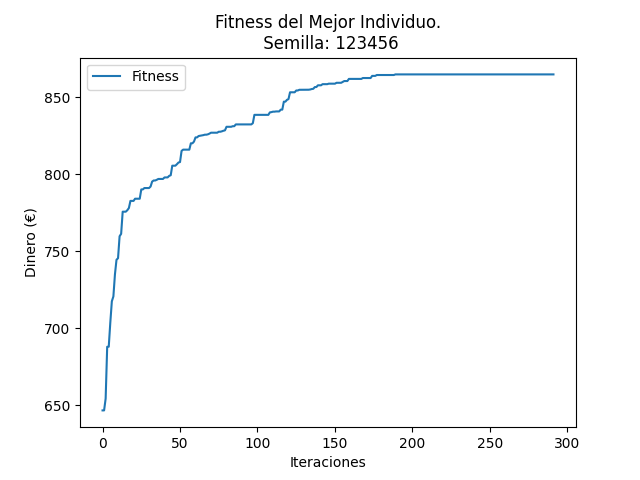
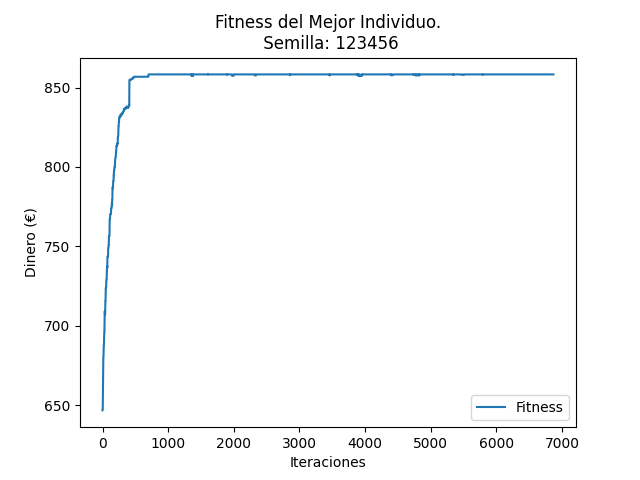
auto-commit:11/05/2023 a las 10:00:04,32

diff --git a/2º Cuatrimestre/[MByHB] Modelos Bioinspirados y Heurísticas de Búsquedas/Prácticas/Practica3_AlgoritmosGeneticos/Código/Utils.py b/2º Cuatrimestre/[MByHB] Modelos Bioinspirados y Heurísticas de Búsquedas/Prácticas/Practica3_AlgoritmosGeneticos/Código/Utils.py
@@ -12,8 +12,7 @@ POBLACION_INICIAL = 25
 POBINICIAL_EXP = [15, 17, 19, 21, 23, 25, 27, 29] # EXP
 PORCENTAJE_MUTACION = 0.3
 PTAJE_MUT = [0.01, 0.05, 0.1, 0.2, 0.3] # EXP
-K = 0.2
-NUM_ITERACIONES = 2000
+NUM_ITERACIONES = 1000
 NUMITER_EXP = [100, 200, 300, 500, 1000, 1500, 2000] # EXP
 
 ELITE = 5
@@ -26,9 +25,9 @@ NUM_ITERACIONES_CHC = 1000
 ITERACIONESCHC_EXP = [100, 200, 300, 500, 1000]
 
 # Multimodal
-NUM_ITERACIONES_MULTIMODAL = 200
+NUM_ITERACIONES_MULTIMODAL = 500
 POB_INICIAL_MULTIMODAL = 27
-MUTACION_MULTIMODAL = 0.3
+MUTACION_MULTIMODAL = 0.1
 NUMERO_GENERACIONES_CLEARING = 10
 NUMGENCLEARING_EXP = [10, 20, 50, 100]
 RADIO_CLEARING = 5
@@ -182,7 +181,7 @@ def grafica(funcion, israndom):
         ax.plot([i for i in range(len(historico[0]))], [i/100 for i in historico[0]], label="Fitness Mejor Individuo")
         ax.plot([i for i in range(len(historico[1]))], [i/100 for i in historico[1]], label="Fitness Peor Individuo")
         plt.legend()
-        plt.xlabel("Veces que mejora")
+        plt.xlabel("Iteraciones")
         plt.ylabel("Dinero (€)")
         plt.title(f"Convergencia del Mejor Individuo y el Peor.\n Semilla: {SEMILLAS[i]}")
         plt.savefig(f"./Graficas/Convergencia/{SEMILLAS[i]}_{'Datos_Aleatorios' if israndom else 'Datos_Reales'}.png")

diff --git a/2º Cuatrimestre/[MByHB] Modelos Bioinspirados y Heurísticas de Búsquedas/Prácticas/Practica3_AlgoritmosGeneticos/Código/Multimodal/Algoritmo_Genetico_Multimodal.py b/2º Cuatrimestre/[MByHB] Modelos Bioinspirados y Heurísticas de Búsquedas/Prácticas/Practica3_AlgoritmosGeneticos/Código/Multimodal/Algoritmo_Genetico_Multimodal.py
@@ -312,5 +312,5 @@ if __name__ == "__main__":
     # print("\n")
     # print("BEST PARAMETERS:\n ")
     # print(pd.DataFrame(data))
-    # Utils.grafica(algoritmo_genetico_generacional_multimodal, israndom=False)
-    print(algoritmo_genetico_generacional_multimodal(12456, False)[0])
+    Utils.grafica(algoritmo_genetico_generacional_multimodal, israndom=True)
+    # print(algoritmo_genetico_generacional_multimodal(12456, False)[0])

diff --git a/2º Cuatrimestre/[MByHB] Modelos Bioinspirados y Heurísticas de Búsquedas/Prácticas/Practica3_AlgoritmosGeneticos/Código/Basico/Algoritmo_Genetico_Basico.py b/2º Cuatrimestre/[MByHB] Modelos Bioinspirados y Heurísticas de Búsquedas/Prácticas/Practica3_AlgoritmosGeneticos/Código/Basico/Algoritmo_Genetico_Basico.py
@@ -251,5 +251,5 @@ def experimentar():
 
 
 if __name__ == "__main__":
-    Utils.grafica(algoritmo_genetico_generacional, israndom=False)
+    Utils.grafica(algoritmo_genetico_generacional, israndom=True)
     # experimentar()

diff --git a/2º Cuatrimestre/[MByHB] Modelos Bioinspirados y Heurísticas de Búsquedas/Prácticas/Practica3_AlgoritmosGeneticos/Código/CHC/Algoritmo_Genetico_CHC.py b/2º Cuatrimestre/[MByHB] Modelos Bioinspirados y Heurísticas de Búsquedas/Prácticas/Practica3_AlgoritmosGeneticos/Código/CHC/Algoritmo_Genetico_CHC.py
@@ -307,5 +307,5 @@ def CHC(semilla, israndom):
 
 
 if __name__ == "__main__":
-    Utils.grafica(CHC, israndom=True)
+    Utils.grafica(CHC, israndom=False)
     # experimentar()
